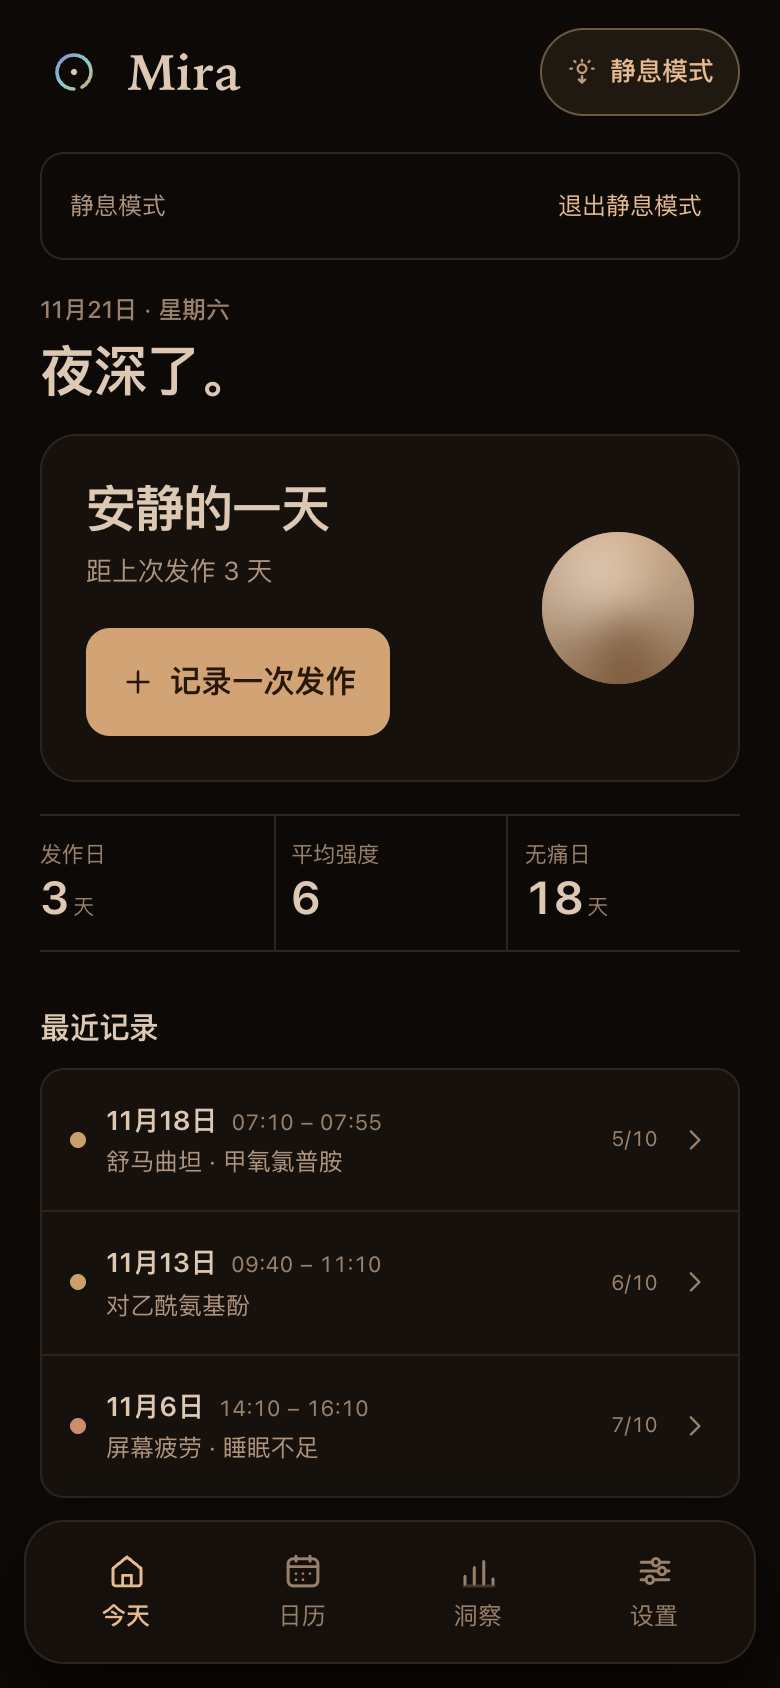
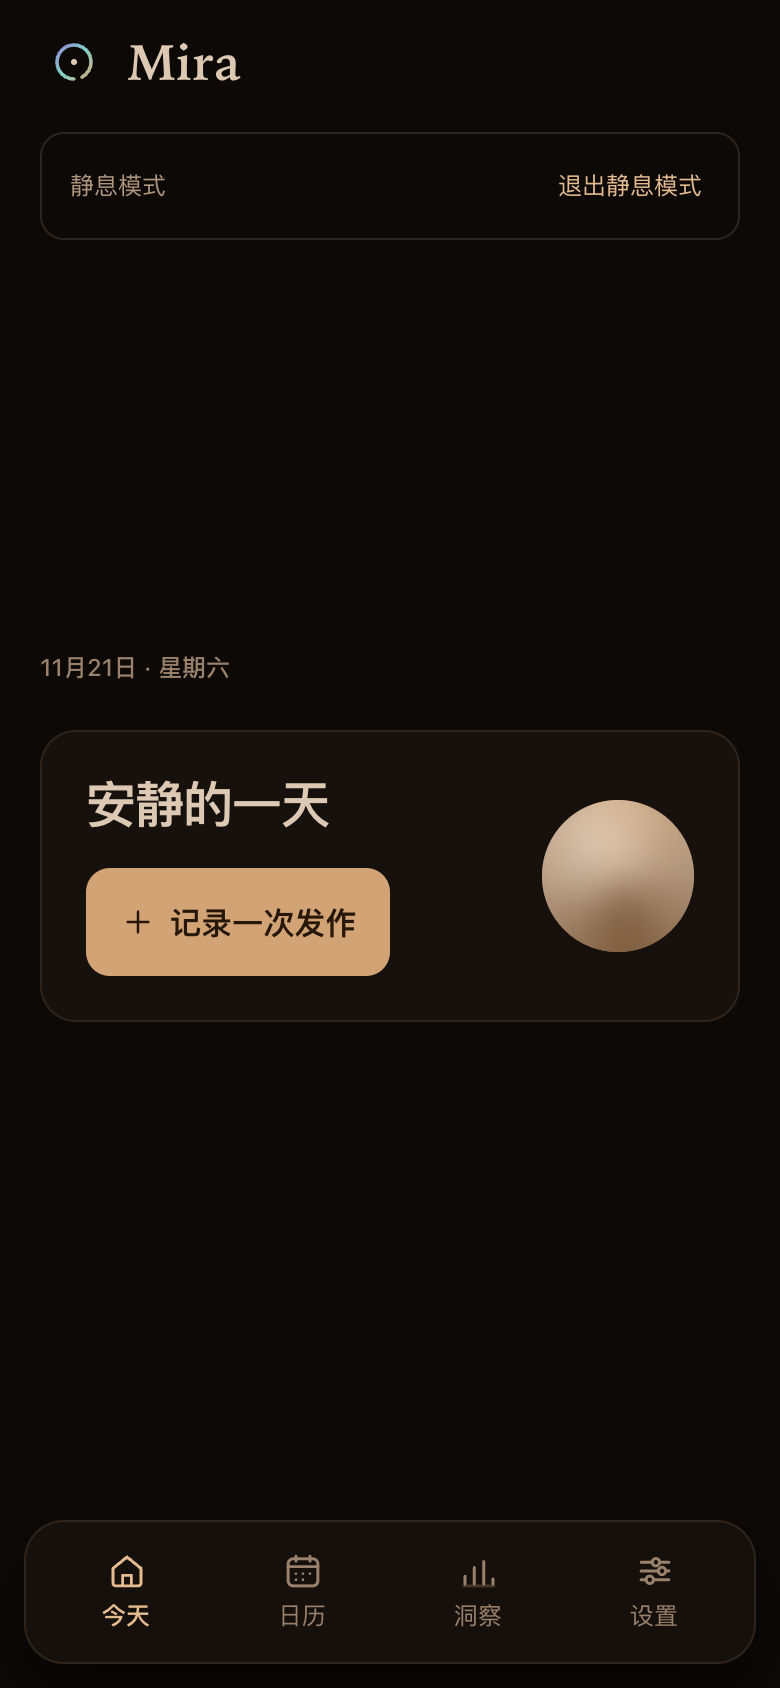
feat: reduce quiet mode to a focused minimal layout
- hide greeting, hero subtitle, monthly stats and recent entries on Today
- center the remaining status and primary action in the available space
- hide quiet toggle while active; keep banner exit and settings switch
- hide low-value captions on calendar, insights and settings
- keep controls, labels, navigation, legend, privacy and medical disclaimer
- refresh quiet-mode screenshot and documentation

diff --git a/src/views/TodayView.tsx b/src/views/TodayView.tsx
@@ -86,7 +86,7 @@ export function TodayView({
       <header class="today-head">
         <div>
           <p class="eyebrow today-date">{formatFullDate(new Date(), lang)}</p>
-          <h1 class="today-greeting">
+          <h1 class={`today-greeting${quiet ? ' sr-only' : ''}`}>
             {greeting}
             {lang === 'zh' || lang === 'zh-Hant' || lang === 'ja' ? '。' : '.'}
           </h1>
@@ -161,56 +161,62 @@ export function TodayView({
         </section>
       )}
 
-      <div class="stat-strip" role="group" aria-label={t('today.monthTitle')}>
-        <div>
-          <span class="stat-label">{t('today.attackDays')}</span>
-          <span class="stat-value">
-            {month.attackDays}
-            <small>{t(month.attackDays === 1 ? 'common.day' : 'common.days')}</small>
-          </span>
-        </div>
-        <div>
-          <span class="stat-label">{t('today.avgSeverity')}</span>
-          <span class="stat-value">{month.avgSeverity ?? '—'}</span>
-        </div>
-        <div>
-          <span class="stat-label">{t('today.painFree')}</span>
-          <span class="stat-value">
-            {data.episodes.length === 0 ? '—' : month.painFreeDays}
-            {data.episodes.length > 0 && (
-              <small>{t(month.painFreeDays === 1 ? 'common.day' : 'common.days')}</small>
-            )}
-          </span>
-        </div>
-      </div>
-
-      <section class="section" aria-labelledby="recent-title">
-        <h2 class="section-title" id="recent-title">
-          {t('today.recent')}
-        </h2>
-        {recent.length === 0 ? (
-          <div class="empty-inline">
-            <strong>{t('today.emptyTitle')}</strong>
-            <p>{t('today.emptyBody')}</p>
-            <button class="text-btn" type="button" onClick={onLoadDemo}>
-              {t('today.demoHint')}
-            </button>
-          </div>
-        ) : (
-          <div class="episode-list">
-            {recent.map((episode) => (
-              <EpisodeCard
-                key={episode.id}
-                episode={episode}
-                data={data}
-                lang={lang}
-                t={t}
-                onClick={() => onEdit(episode)}
-              />
-            ))}
-          </div>
+      {!quiet && (
+  <div class="stat-strip" role="group" aria-label={t('today.monthTitle')}>
+    <div>
+      <span class="stat-label">{t('today.attackDays')}</span>
+      <span class="stat-value">
+        {month.attackDays}
+        <small>{t(month.attackDays === 1 ? 'common.day' : 'common.days')}</small>
+      </span>
+    </div>
+    <div>
+      <span class="stat-label">{t('today.avgSeverity')}</span>
+      <span class="stat-value">{month.avgSeverity ?? '—'}</span>
+    </div>
+    <div>
+      <span class="stat-label">{t('today.painFree')}</span>
+      <span class="stat-value">
+        {data.episodes.length === 0 ? '—' : month.painFreeDays}
+        {data.episodes.length > 0 && (
+          <small>{t(month.painFreeDays === 1 ? 'common.day' : 'common.days')}</small>
         )}
-      </section>
+      </span>
+    </div>
+  </div>
+
+      )}
+
+      {!quiet && (
+  <section class="section" aria-labelledby="recent-title">
+    <h2 class="section-title" id="recent-title">
+      {t('today.recent')}
+    </h2>
+    {recent.length === 0 ? (
+      <div class="empty-inline">
+        <strong>{t('today.emptyTitle')}</strong>
+        <p>{t('today.emptyBody')}</p>
+        <button class="text-btn" type="button" onClick={onLoadDemo}>
+          {t('today.demoHint')}
+        </button>
+      </div>
+    ) : (
+      <div class="episode-list">
+        {recent.map((episode) => (
+          <EpisodeCard
+            key={episode.id}
+            episode={episode}
+            data={data}
+            lang={lang}
+            t={t}
+            onClick={() => onEdit(episode)}
+          />
+        ))}
+      </div>
+    )}
+  </section>
+      )}
+
 
     </div>
   );

diff --git a/src/styles.css b/src/styles.css
@@ -1659,6 +1659,26 @@ svg {
 :root[data-quiet='true'] .orb::after {
   animation: none !important;
 }
+:root[data-quiet='true'] .view.today {
+  min-height: calc(100dvh - 280px);
+  display: flex;
+  flex-direction: column;
+  justify-content: center;
+}
+:root[data-quiet='true'] .quiet-toggle,
+:root[data-quiet='true'] .page-sub,
+:root[data-quiet='true'] .hero-sub,
+:root[data-quiet='true'] .cal-summary,
+:root[data-quiet='true'] .day-panel-sub,
+:root[data-quiet='true'] .insight-sub,
+:root[data-quiet='true'] .metric-foot,
+:root[data-quiet='true'] .chart-note,
+:root[data-quiet='true'] .form-hint,
+:root[data-quiet='true'] .about-version,
+:root[data-quiet='true'] .about-made,
+:root[data-quiet='true'] .quiet-optional {
+  display: none;
+}
 :root[data-quiet='true'] .app-shell {
   font-size: 17px;
 }

diff --git a/src/views/SettingsView.tsx b/src/views/SettingsView.tsx
@@ -131,7 +131,7 @@ export function SettingsView({
       <section class="settings-group">
         <h2 class="settings-group-title">{t('settings.data')}</h2>
         <div class="settings-card">
-          <div class="setting-row">
+          <div class="setting-row quiet-optional">
             <div class="setting-main">
               <div class="setting-desc">{t('settings.dataDesc')}</div>
             </div>

diff --git a/README.md b/README.md
@@ -87,6 +87,7 @@ Mira 因此做了三件事：
 ### 静息模式
 
 - 首页顶部有带文字的「静息模式」快捷按钮，设置中也有开关；开启后为暖黑低光配色、关闭环境动效、放大按钮与触控区域。
+- 静息模式会自动收起问候、月度统计、最近记录、页面副标题与说明性小字，只保留状态、主操作、进行中控制、导航和必要的安全说明。
 - 适合发作中快速记录；再点一次即可退出。
 - 与主题偏好独立，选择不会被覆盖。
 
@@ -116,7 +117,7 @@ Mira 的视觉隐喻是「极光下的一只眼睛」：品牌符号是一个留
 - 原生 `<dialog>` 作为模态层，浏览器负责焦点约束、Esc、返回手势
 - 纯 SVG 图表；CSS 自定义属性驱动主题、强度色与静息模式
 - `localStorage` 本地持久化（`mira.data.v1` / `mira.settings.v1`），JSON 备份导入 / 导出
-- 生产包约 **166 kB JS / 34 kB CSS**（gzip 后约 **48 kB / 7.7 kB**）
+- 生产包约 **166 kB JS / 35.5 kB CSS**（gzip 后约 **48 kB / 7.8 kB**）
 
 ### 数据模型
 
